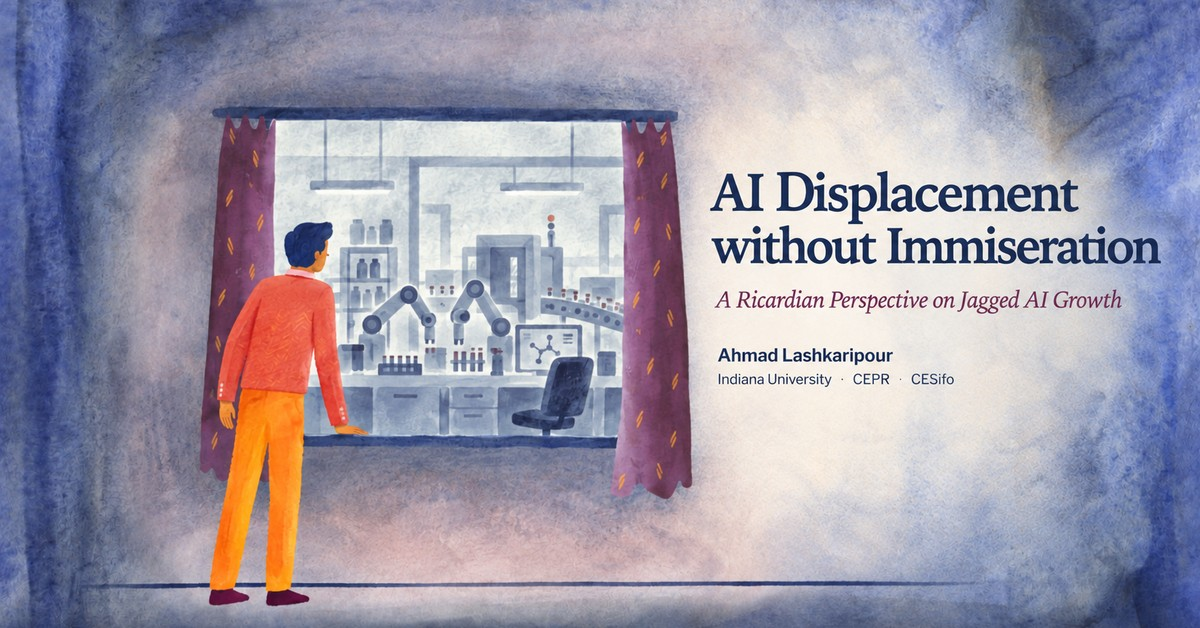
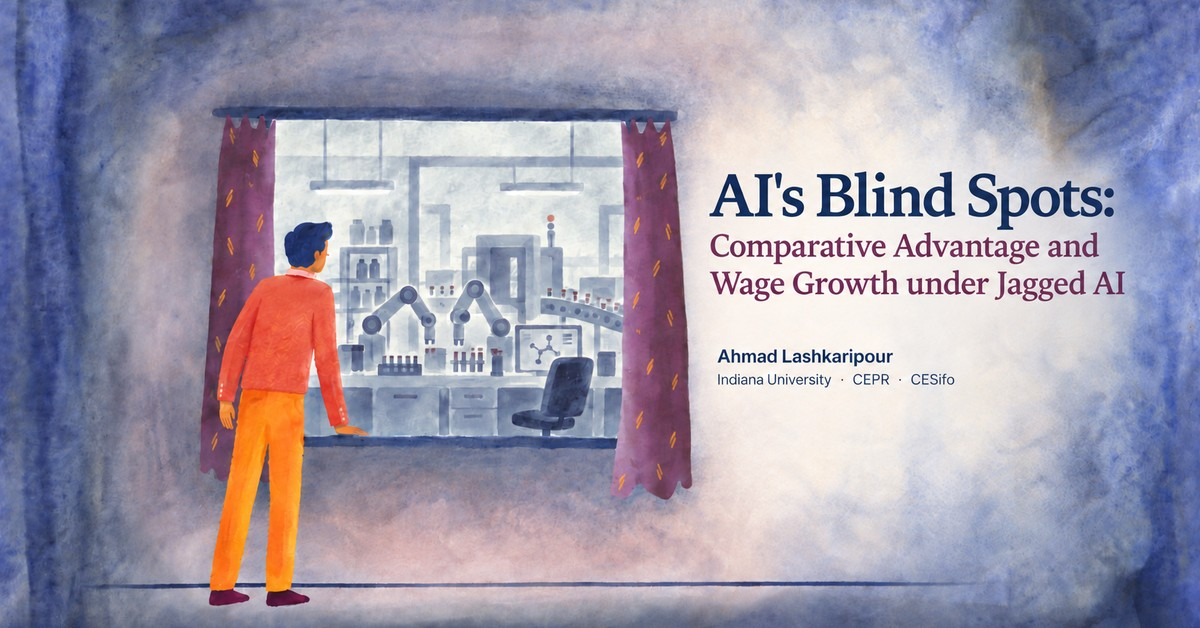
Retitle slides as AI's Blind Spots and refresh the share card

diff --git a/public/slides/ai-displacement-without-immiseration/index.html b/public/slides/ai-displacement-without-immiseration/index.html
@@ -8,20 +8,20 @@
       name="description"
       content="Displacement is not immiseration. A Ricardian assignment model with jagged frontier."
     />
-    <title>AI Displacement without Immiseration</title>
+    <title>AI's Blind Spots: Comparative Advantage and Wage Growth under Jagged AI</title>
     <meta property="og:type" content="website" />
     <meta property="og:url" content="https://ahmadlp.github.io/slides/ai-displacement-without-immiseration/" />
-    <meta property="og:title" content="AI Displacement without Immiseration" />
-    <meta property="og:description" content="A Ricardian Perspective on Jagged AI Growth" />
-    <meta property="og:image" content="https://ahmadlp.github.io/slides/ai-displacement-without-immiseration/share-card.jpg" />
+    <meta property="og:title" content="AI's Blind Spots" />
+    <meta property="og:description" content="Comparative Advantage and Wage Growth under Jagged AI" />
+    <meta property="og:image" content="https://ahmadlp.github.io/slides/ai-displacement-without-immiseration/share-card.jpg?v=2" />
     <meta property="og:image:width" content="1200" />
     <meta property="og:image:height" content="628" />
-    <meta property="og:image:alt" content="Title page of the slides: AI Displacement without Immiseration, A Ricardian Perspective on Jagged AI Growth, by Ahmad Lashkaripour. A worker looks through a window at robot arms in a lab." />
+    <meta property="og:image:alt" content="Title page of the slides: AI's Blind Spots: Comparative Advantage and Wage Growth under Jagged AI, by Ahmad Lashkaripour. A worker looks through a window at robot arms in a lab." />
     <meta name="twitter:card" content="summary_large_image" />
-    <meta name="twitter:title" content="AI Displacement without Immiseration" />
-    <meta name="twitter:description" content="A Ricardian Perspective on Jagged AI Growth" />
-    <meta name="twitter:image" content="https://ahmadlp.github.io/slides/ai-displacement-without-immiseration/share-card.jpg" />
-    <meta name="twitter:image:alt" content="Title page of the slides: AI Displacement without Immiseration, A Ricardian Perspective on Jagged AI Growth, by Ahmad Lashkaripour. A worker looks through a window at robot arms in a lab." />
+    <meta name="twitter:title" content="AI's Blind Spots" />
+    <meta name="twitter:description" content="Comparative Advantage and Wage Growth under Jagged AI" />
+    <meta name="twitter:image" content="https://ahmadlp.github.io/slides/ai-displacement-without-immiseration/share-card.jpg?v=2" />
+    <meta name="twitter:image:alt" content="Title page of the slides: AI's Blind Spots: Comparative Advantage and Wage Growth under Jagged AI, by Ahmad Lashkaripour. A worker looks through a window at robot arms in a lab." />
     <script>
       (() => {
         const query = new URLSearchParams(window.location.search);
@@ -33,12 +33,12 @@
       })();
     </script>
     <link rel="preload" href="./assets/title-gouache-future-v8.png" as="image" media="(max-width: 1100px), (max-aspect-ratio: 3/2)" />
-    <link rel="preload" href="./assets/title-slide-pale-wash-v1.png" as="image" media="(min-width: 1101px) and (min-aspect-ratio: 1501/1000)" />
+    <link rel="preload" href="./assets/title-slide-blind-spots-v1.png" as="image" media="(min-width: 1101px) and (min-aspect-ratio: 1501/1000)" />
     <link rel="stylesheet" href="./styles.css?v=round31-7" />
     <link rel="stylesheet" href="./horses.css?v=round30-2" />
     <link rel="stylesheet" href="./deck.css?v=round31-2" />
     <link rel="stylesheet" href="./trade.css?v=round31-2" />
-    <link rel="stylesheet" href="./medicine.css?v=round31-cover-2" />
+    <link rel="stylesheet" href="./medicine.css?v=round31-cover-3" />
     <link rel="stylesheet" href="./trade-equation.css?v=round31-2" />
     <link rel="stylesheet" href="./round26.css?v=round27-transitions-1" />
     <link rel="stylesheet" href="./chart-palette.css?v=round30-1" />
@@ -49,7 +49,7 @@
     <script src="./medicine.js?v=round31-9" defer></script>
     <script src="./autoplay-cue.js?v=round31-1" defer></script>
     <script src="./slide-nav.js?v=round31-1" defer></script>
-    <script src="./story.js?v=round31-12" defer></script>
+    <script src="./story.js?v=round31-14" defer></script>
     <script src="./horses.js?v=round30-1" defer></script>
     <script src="./trade.js?v=round30-1" defer></script>
     <link rel="stylesheet" href="./trade-blocks.css?v=round30-2" />
@@ -89,15 +89,15 @@
   </head>
   <body>
     <main>
-      <section class="title-cover" aria-labelledby="cover-title">
+      <section class="title-cover" aria-labelledby="cover-title cover-subtitle">
         <picture>
-          <source media="(min-width: 1101px) and (min-aspect-ratio: 1501/1000)" srcset="./assets/title-slide-pale-wash-v1.png" />
+          <source media="(min-width: 1101px) and (min-aspect-ratio: 1501/1000)" srcset="./assets/title-slide-blind-spots-v1.png" />
           <img class="title-cover__art" data-cover-art src="./assets/title-gouache-future-v8.png" width="1586" height="992" alt="Many workers fear AI is coming for their jobs." />
         </picture>
         <div class="title-cover__veil" aria-hidden="true"></div>
         <header class="title-cover__copy">
-          <h1 id="cover-title">AI Displacement without Immiseration</h1>
-          <p class="title-cover__subtitle">A Ricardian Perspective on Jagged AI Growth</p>
+          <h1 id="cover-title">AI's Blind Spots:</h1>
+          <p class="title-cover__subtitle" id="cover-subtitle">Comparative Advantage and Wage Growth under Jagged AI</p>
           <p class="title-cover__author">Ahmad Lashkaripour</p>
           <p class="title-cover__byline"><span>Indiana University</span><span>CEPR</span><span>CESifo</span></p>
           <a class="title-cover__enter" href="#example-story"><span data-cover-example>Scroll down</span><span aria-hidden="true"> ↓</span></a>

diff --git a/public/slides/ai-displacement-without-immiseration/medicine.css b/public/slides/ai-displacement-without-immiseration/medicine.css
@@ -21,7 +21,7 @@ html[data-example="medicine"] .title-cover__enter:focus-visible { outline-color:
 /* Round 31: on wide screens the cover is the finished slide picture, words included; the live words stay
    for screen readers. The picture is anchored right so the words are never cropped. The picture has no
    painted Scroll down; the live button sits where it was, its top left at 988, 627 of the picture's
-   1649 by 954, and --k (one picture pixel) scales it with the picture. */
+   1648 by 954, and --k (one picture pixel) scales it with the picture. */
 @media (min-width: 1101px) and (min-aspect-ratio: 1501/1000) {
   html[data-example="medicine"] .title-cover__art { object-position: right center; }
   html[data-example="medicine"] .title-cover__copy {
@@ -41,10 +41,10 @@ html[data-example="medicine"] .title-cover__enter:focus-visible { outline-color:
     white-space: nowrap;
   }
   html[data-example="medicine"] .title-cover__enter {
-    --k: max(100cqw / 1649, 100cqh / 954);
+    --k: max(100cqw / 1648, 100cqh / 954);
     position: absolute;
     top: calc(50% + var(--k) * 150);
-    left: calc(100% - var(--k) * 661);
+    left: calc(100% - var(--k) * 660);
     margin: 0;
     pointer-events: auto;
   }

diff --git a/public/slides/ai-displacement-without-immiseration/story.js b/public/slides/ai-displacement-without-immiseration/story.js
@@ -198,7 +198,7 @@
   let playTime = 0;
   let entered = { start: -1, time: 0 };
 
-  document.title = `AI Displacement without Immiseration`;
+  document.title = `AI's Blind Spots: Comparative Advantage and Wage Growth under Jagged AI`;
   const coverArt = document.querySelector("[data-cover-art]");
   coverArt.src = content.cover;
   coverArt.alt = content.coverAlt;
